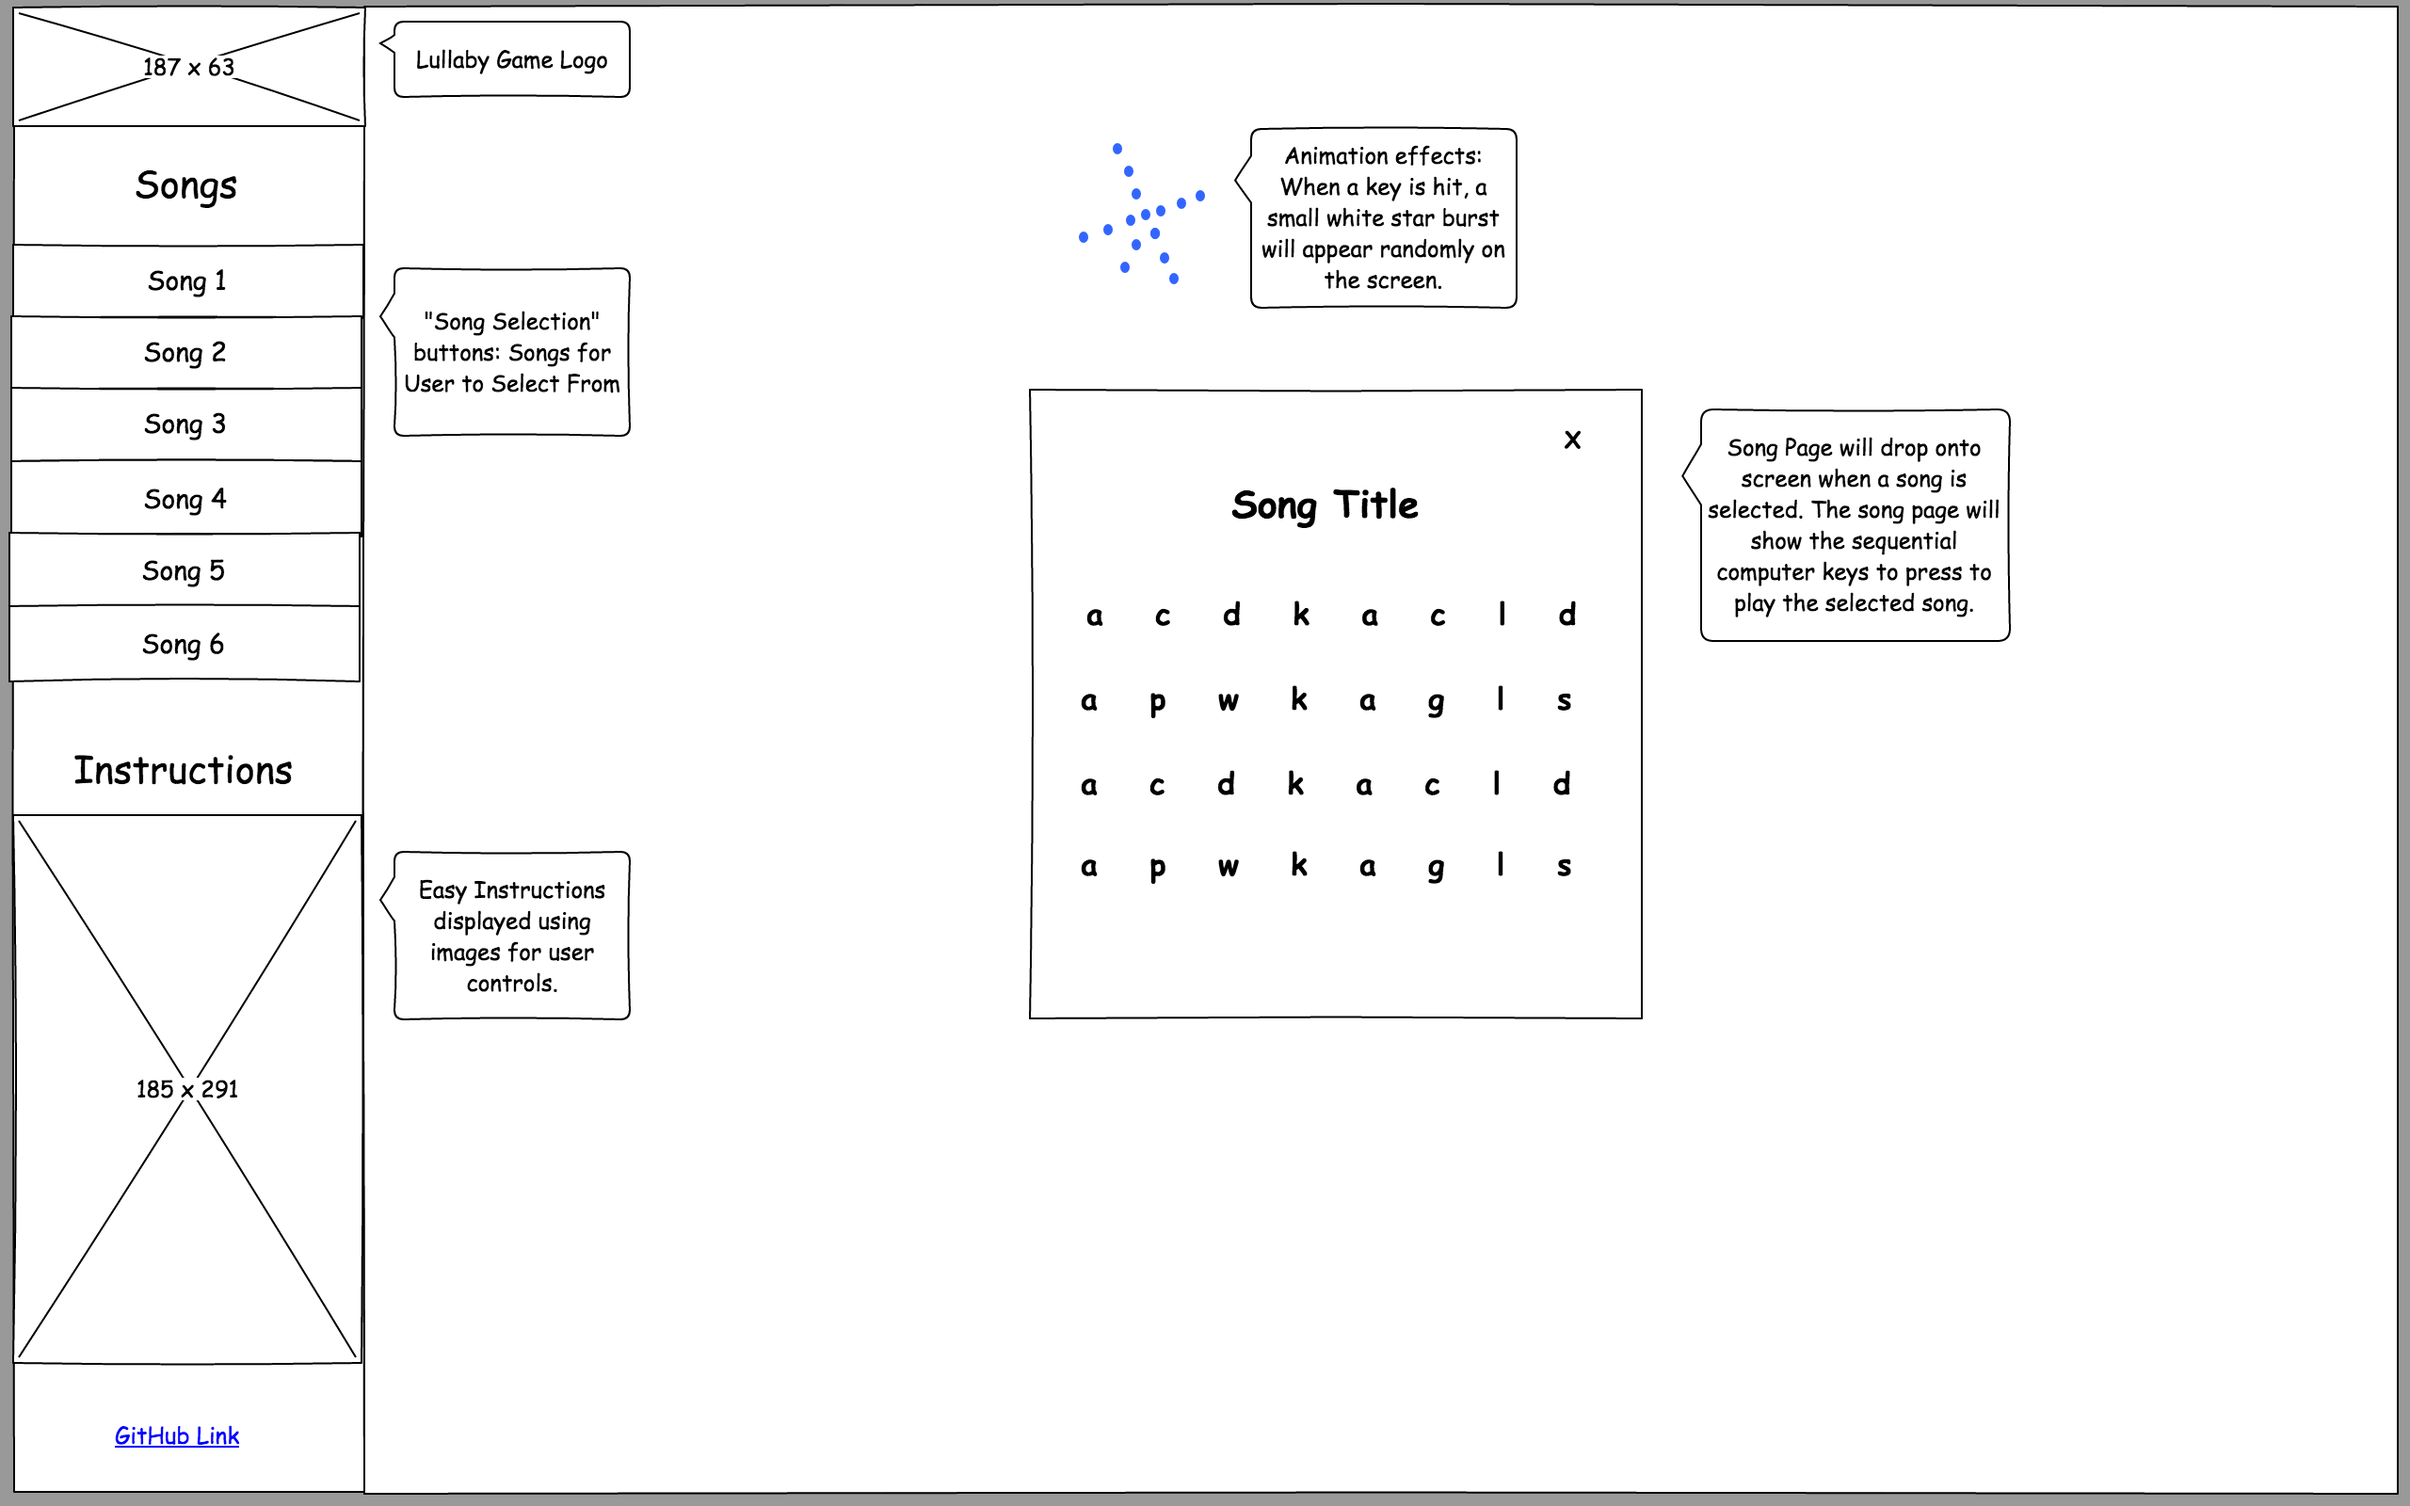
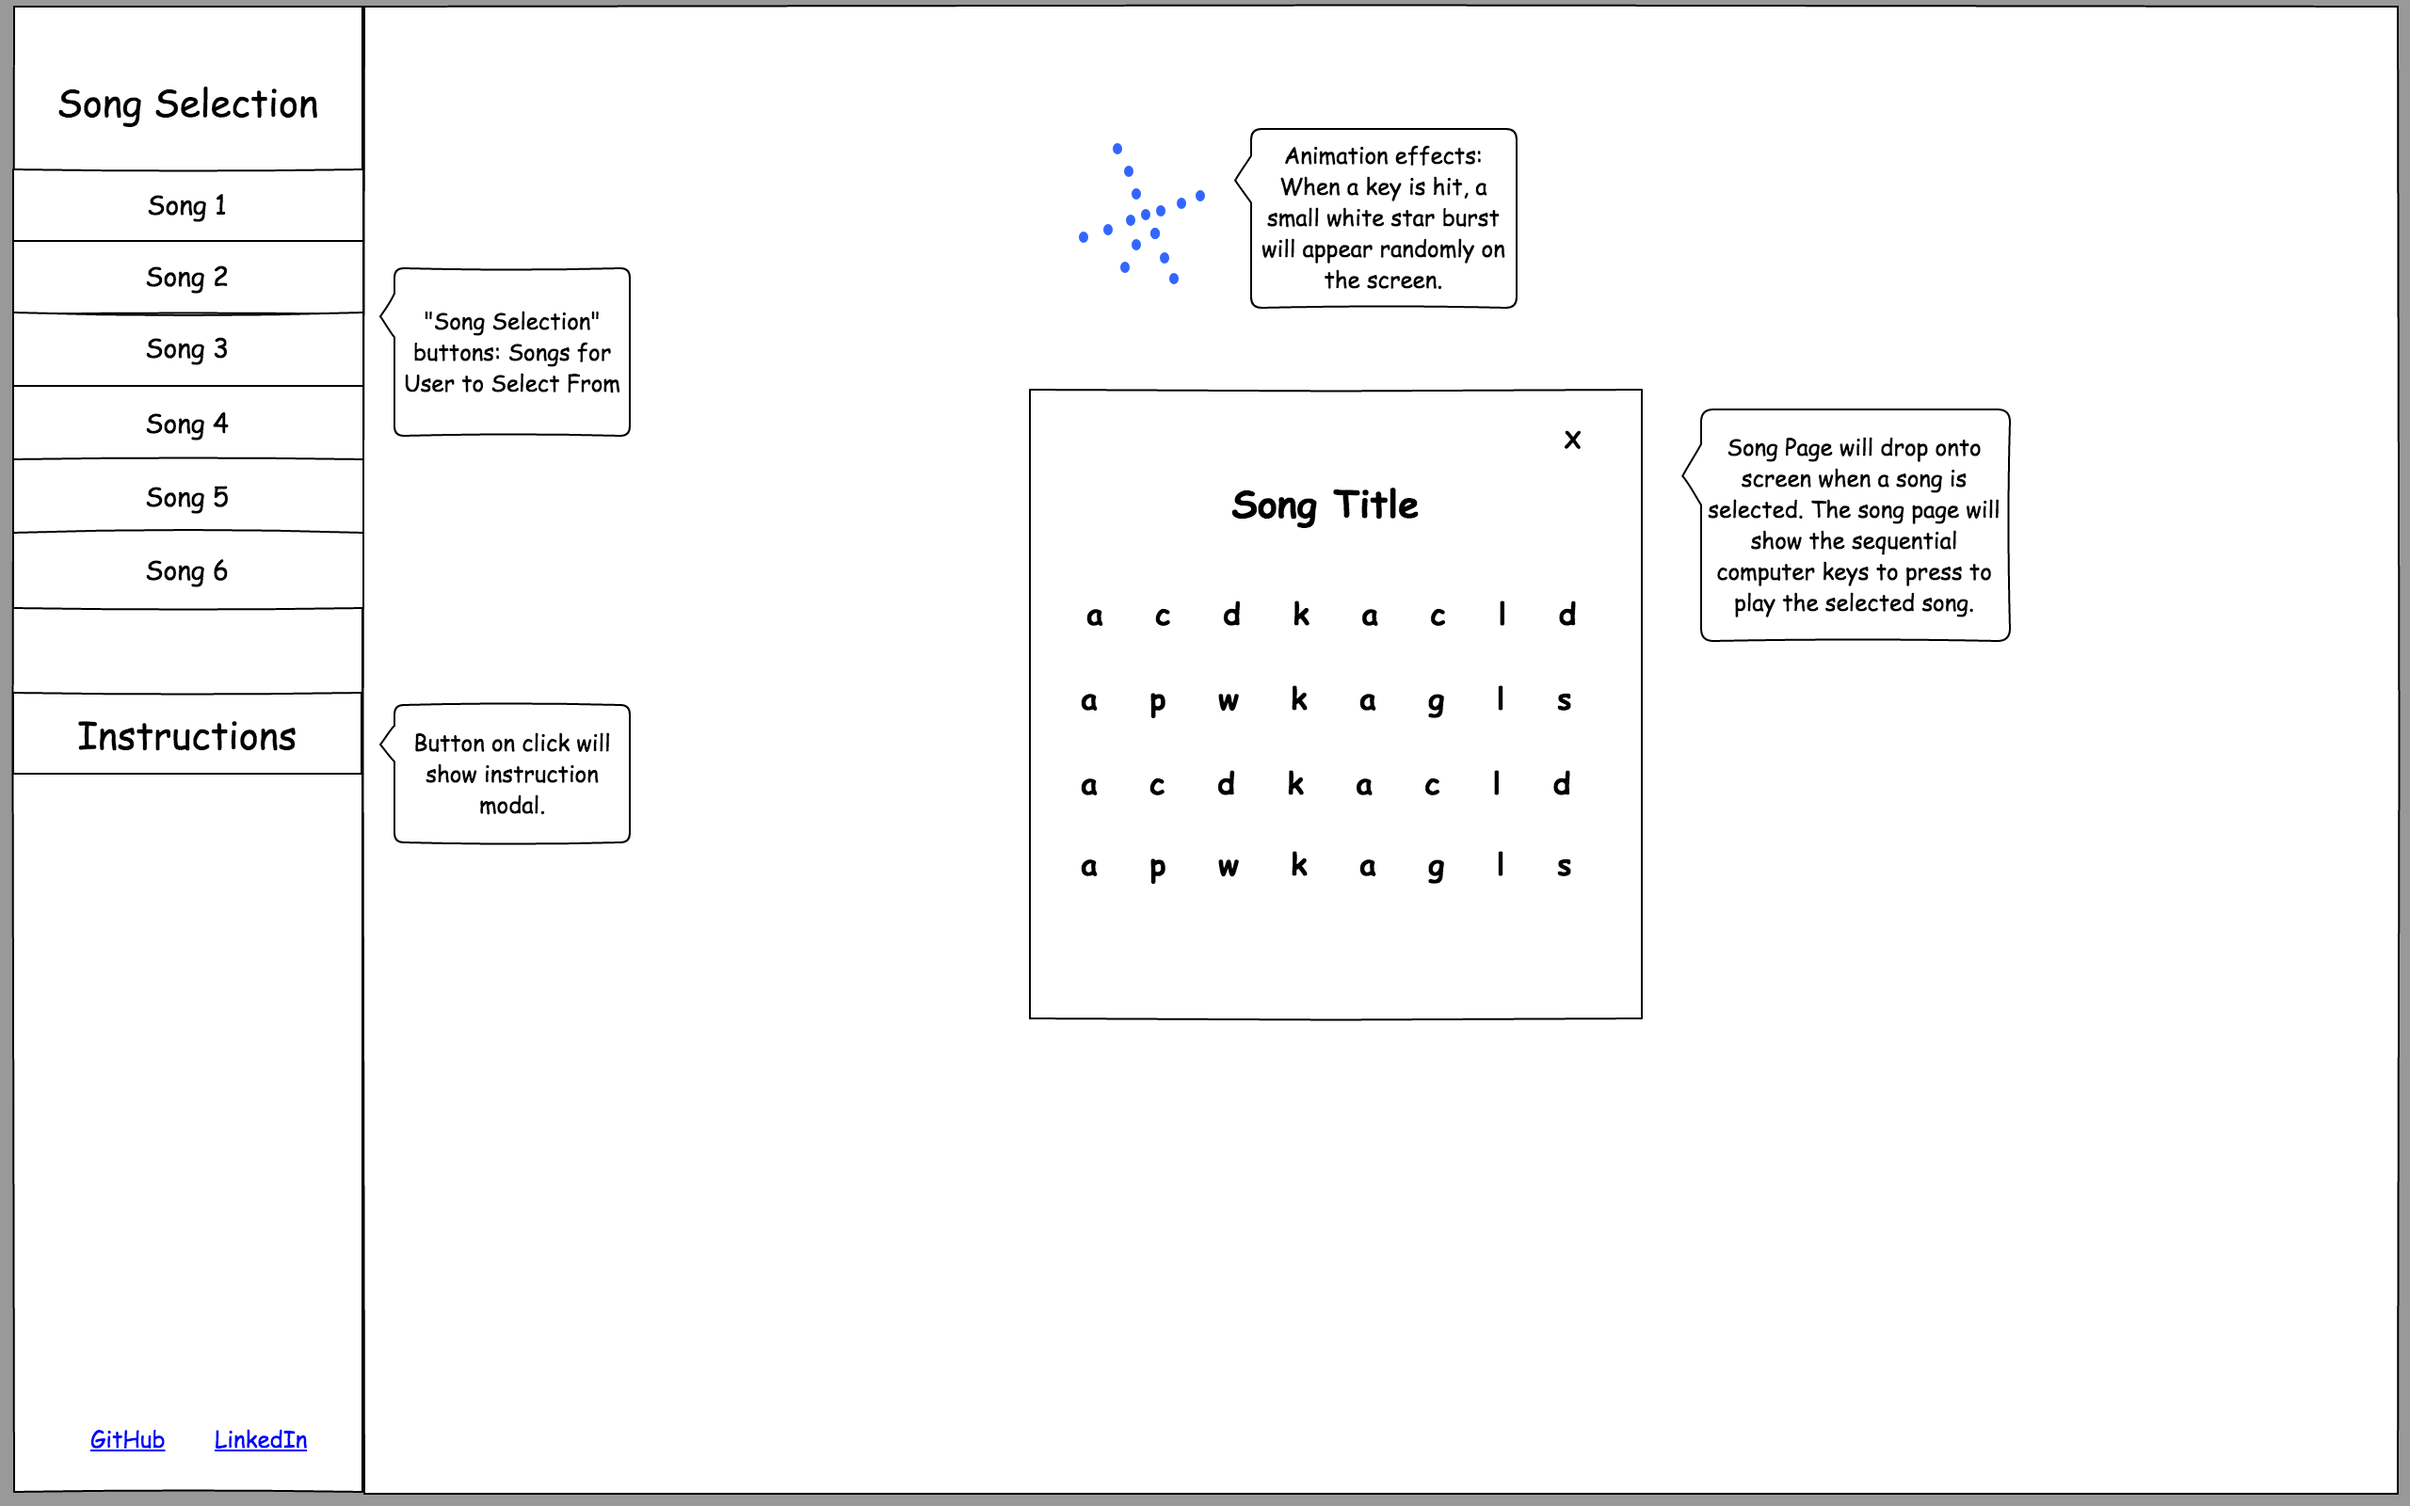
Add instructions wireframe to dev README

diff --git a/docs/proposal/development_README.md b/docs/proposal/development_README.md
@@ -28,6 +28,8 @@ generated on the screen.
 
 ![lullaby-wireframe](./lullaby.png)
 
+![instructions-wireframe](./instructions.png)
+
 
 ## Architecture and Technologies
 This project will include the following technologies:
